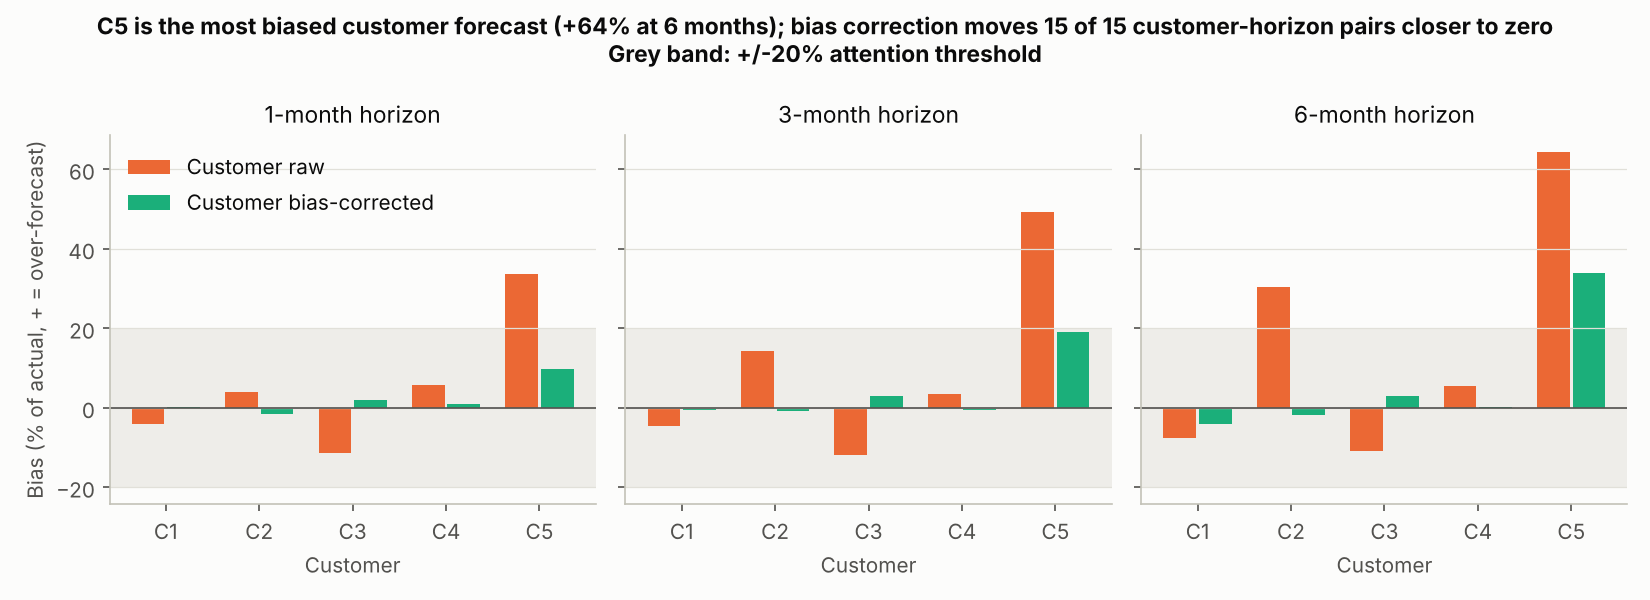
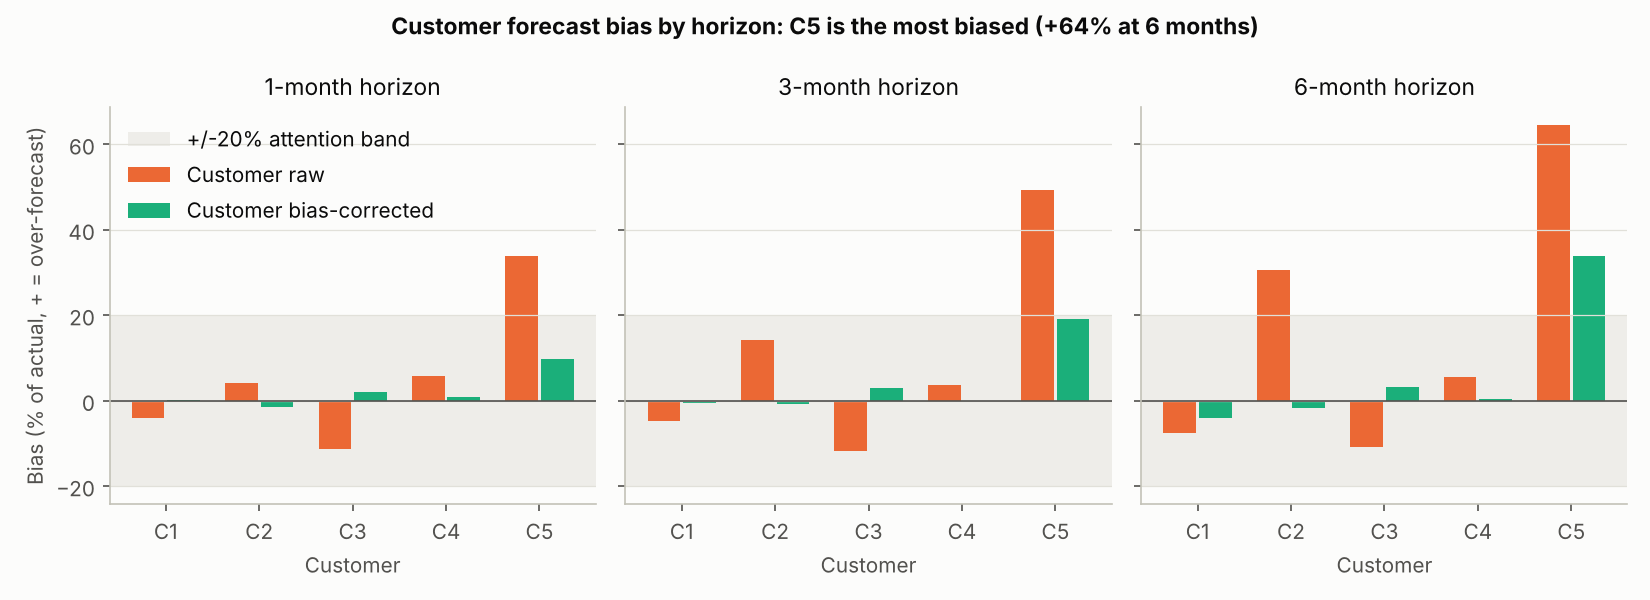
Charts: one-line titles, legend clear of the detection-lag band
Claude-Session: https://claude.ai/code/session_01C1yGi9M93vB9Gqk18cGwtS

diff --git a/src/fgov/report.py b/src/fgov/report.py
@@ -98,6 +98,8 @@ def build_tables(frames, forecasts, choices, alerts, onset=breaks.ONSET):
     # Headlines picked once here so chart titles and report text cannot disagree.
     raw = by_customer[(by_customer.period == "all") & (by_customer.method == "customer_raw")]
     worst = raw.loc[raw.bias.abs().idxmax()]
+    pair = by_customer[by_customer.period == "all"].pivot_table(index=["customer", "horizon"], columns="method", values="bias")
+    closer = (pair["customer_bias_corrected"].abs() <= pair["customer_raw"].abs())
     post = summary[(summary.horizon == TRACK_HORIZON) & (summary.period == "post")
                    & (summary.method != "seasonal_naive")].set_index("method").fva_vs_naive
     st = stab[stab.period == "all"].set_index("method").stability
@@ -108,6 +110,7 @@ def build_tables(frames, forecasts, choices, alerts, onset=breaks.ONSET):
         "track_family": fam, "track_step_factor": long_lead.step_factor.max(),
         "track_detected_at": track.break_detected_at_origin, "track_break_month": track.break_month,
         "worst_customer": worst.customer, "worst_horizon": worst.horizon, "worst_bias": worst.bias,
+        "pairs_closer": int(closer.sum()), "pairs_total": int(len(closer)),
         "best_post": post.idxmax() if post.notna().any() else "blend", "best_post_fva": post.max(),
         "calm": st.drop("seasonal_naive", errors="ignore").idxmin(), "jumpy": st.idxmax()}])
     f, a = forecasts, actuals
@@ -185,8 +188,8 @@ def chart_total(tables, outdir):
                     arrowprops={"arrowstyle": "-", "color": INK2, "lw": 0.8})
     ax.set_ylim(0, top * 1.02)
     ax.set_xlim(1, t.month.max())
-    return finish(fig, ax, outdir, CHARTS[0], f"Total demand rose from {c.total_pre_level / 1000:.1f}k to "
-                  f"{c.total_post_level / 1000:.1f}k units a month; the break was flagged "
+    return finish(fig, ax, outdir, CHARTS[0], f"Total demand stepped from {c.total_pre_level / 1000:.1f}k to "
+                  f"{c.total_post_level / 1000:.1f}k a month; break flagged "
                   f"{num(c.total_months_after_onset, '.0f')} months after onset",
                   "Month", "Total demand (thousand units / month)", {"loc": "upper left"})
 
@@ -198,7 +201,7 @@ def chart_bias(tables, outdir):
     fig, axes = plt.subplots(1, len(horizons), figsize=(11, 4), sharey=True, squeeze=False)
     x = np.arange(len(customers))
     for ax, h in zip(axes[0], horizons, strict=True):
-        ax.axhspan(-20, 20, color=GRID, alpha=0.5, lw=0)
+        ax.axhspan(-20, 20, color=GRID, alpha=0.5, lw=0, label="+/-20% attention band" if h == horizons[0] else None)
         vals = [100 * b[(b.horizon == h) & (b.method == m)].set_index("customer").bias.reindex(customers)
                 for m in CUSTOMER_METHODS]
         paired_bars(ax, x, vals, [COLOR[m] for m in CUSTOMER_METHODS], [LABEL[m] for m in CUSTOMER_METHODS])
@@ -206,13 +209,8 @@ def chart_bias(tables, outdir):
         ax.set_xticks(x, customers)
         ax.set_title(f"{h}-month horizon", fontweight="normal")
         ax.set_xlabel("Customer")
-    raw = b[b.method == "customer_raw"].set_index(["customer", "horizon"]).bias
-    cor = b[b.method == "customer_bias_corrected"].set_index(["customer", "horizon"]).bias
-    closer = cor.abs() <= raw.abs()
-    fig.suptitle(f"{c.worst_customer} is the most biased customer forecast ({pct(c.worst_bias)} at "
-                 f"{c.worst_horizon} months); bias correction moves {closer.sum()} of {len(closer)} "
-                 f"customer-horizon pairs closer to zero\nGrey band: +/-20% attention threshold",
-                 fontweight="bold", fontsize=11)
+    fig.suptitle(f"Customer forecast bias by horizon: {c.worst_customer} is the most biased "
+                 f"({pct(c.worst_bias)} at {c.worst_horizon} months)", fontweight="bold", fontsize=11)
     return finish(fig, axes[0][0], outdir, CHARTS[1], None, "Customer",
                   "Bias (% of actual, + = over-forecast)", {"loc": "upper left"})
 
@@ -246,12 +244,11 @@ def chart_tracking(tables, outdir):
     top = ax.get_ylim()[1] * 1.2
     mark_break(ax, c.track_break_month, c.track_detected_at, top, c.onset)
     ax.set_ylim(0, top * 1.02)
-    return finish(fig, ax, outdir, CHARTS[3], f"{TRACK_CUSTOMER}, family {c.track_family}, {TRACK_HORIZON} "
-                  f"months ahead: after the break the raw customer forecast runs "
-                  f"{pct(tracking_bias(t, 'customer_raw', c.onset))} vs actual, bias-corrected "
-                  f"{pct(tracking_bias(t, 'customer_bias_corrected', c.onset))}",
+    return finish(fig, ax, outdir, CHARTS[3], f"{TRACK_CUSTOMER} on {c.track_family}, {TRACK_HORIZON} months "
+                  f"ahead: after the break raw customer forecast {pct(tracking_bias(t, 'customer_raw', c.onset))}, "
+                  f"bias-corrected {pct(tracking_bias(t, 'customer_bias_corrected', c.onset))}",
                   f"Target month (forecast made {TRACK_HORIZON} months earlier)", "Units / month",
-                  {"loc": "upper left", "ncol": 3, "handlelength": 2.5, "fontsize": 9})
+                  {"loc": "lower right", "ncol": 2, "handlelength": 2.5, "fontsize": 9})
 
 
 def place_labels(fig, ax, d):
@@ -372,7 +369,7 @@ All data in this report is synthetic, generated by code in this repository with 
 
 ## 2. Which customer forecasts to trust
 
-{c.worst_customer}'s own forecast is the least trustworthy ({pct(c.worst_bias)} bias at {c.worst_horizon} months, {pct(worst_cor.iloc[0] if len(worst_cor) else np.nan)} after bias correction); {(", ".join(trusted) + " stay") if trusted else "no customer stays"} within 10% at every horizon.
+{c.worst_customer}'s own forecast is the least trustworthy ({pct(c.worst_bias)} bias at {c.worst_horizon} months, {pct(worst_cor.iloc[0] if len(worst_cor) else np.nan)} after bias correction); {(", ".join(trusted) + " stay") if trusted else "no customer stays"} within 10% at every horizon. Bias correction moves {c.pairs_closer} of {c.pairs_total} customer-horizon pairs closer to zero.
 
 {img("customer_bias_by_horizon")}
 

diff --git a/NOTES.md b/NOTES.md
@@ -153,3 +153,7 @@ Section 3 now states the stat baseline's achieved 80% coverage at 3 months pre- 
 ### 5. README tidy
 
 Opening paragraph split in three with the synthetic-data sentence first; a fourth headline bullet on interval coverage; a short section on reading the planner table; and a line at the top of `SPEC.md` stating that the owner wrote it and reviewed the result.
+
+### 6. Chart check
+
+All five titles are now one line (under 90 characters); the "N of M pairs closer to zero" detail moved from the bias chart title into section 2 of the report, and the attention band is a legend entry instead of a title note. The tracking chart's legend moved to the lower right so it no longer sits over the detection-lag band.

diff --git a/outputs/governance_report.md b/outputs/governance_report.md
@@ -6,7 +6,7 @@ All data in this report is synthetic, generated by code in this repository with 
 
 ## 2. Which customer forecasts to trust
 
-C5's own forecast is the least trustworthy (+64% bias at 6 months, +34% after bias correction); C1, C4 stay within 10% at every horizon.
+C5's own forecast is the least trustworthy (+64% bias at 6 months, +34% after bias correction); C1, C4 stay within 10% at every horizon. Bias correction moves 15 of 15 customer-horizon pairs closer to zero.
 
 ![customer_bias_by_horizon](charts/customer_bias_by_horizon.png)
 
